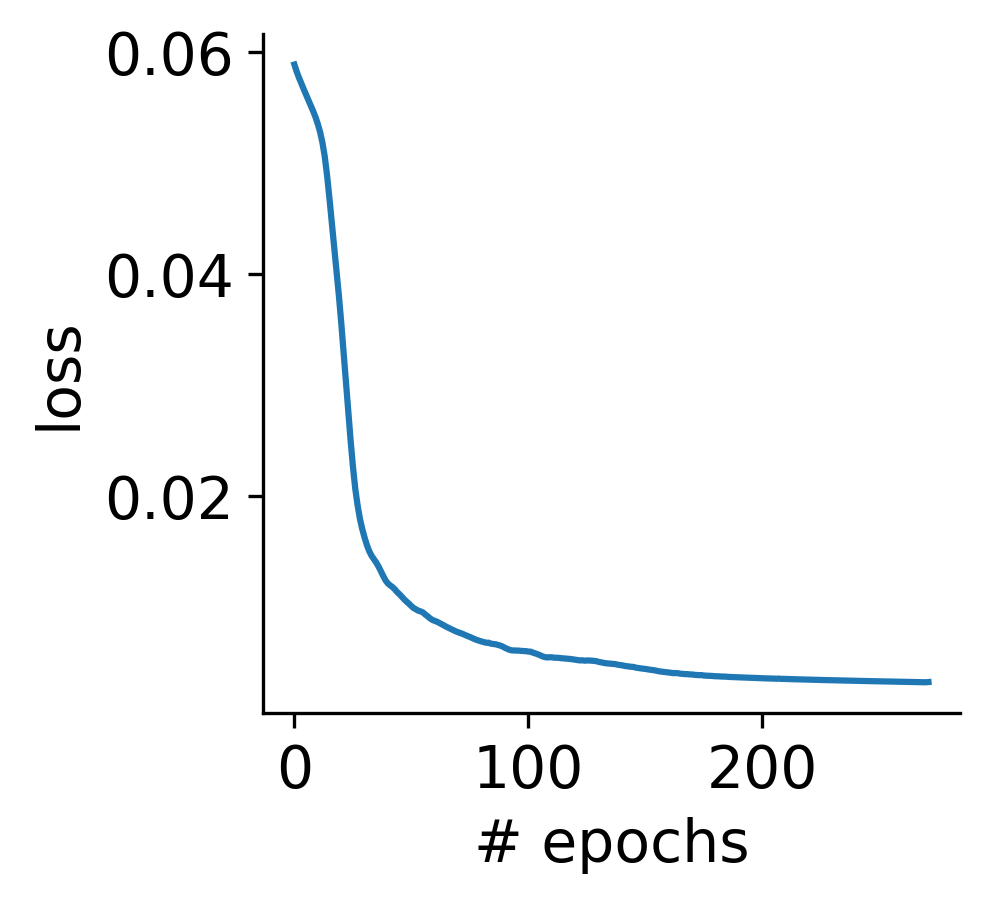
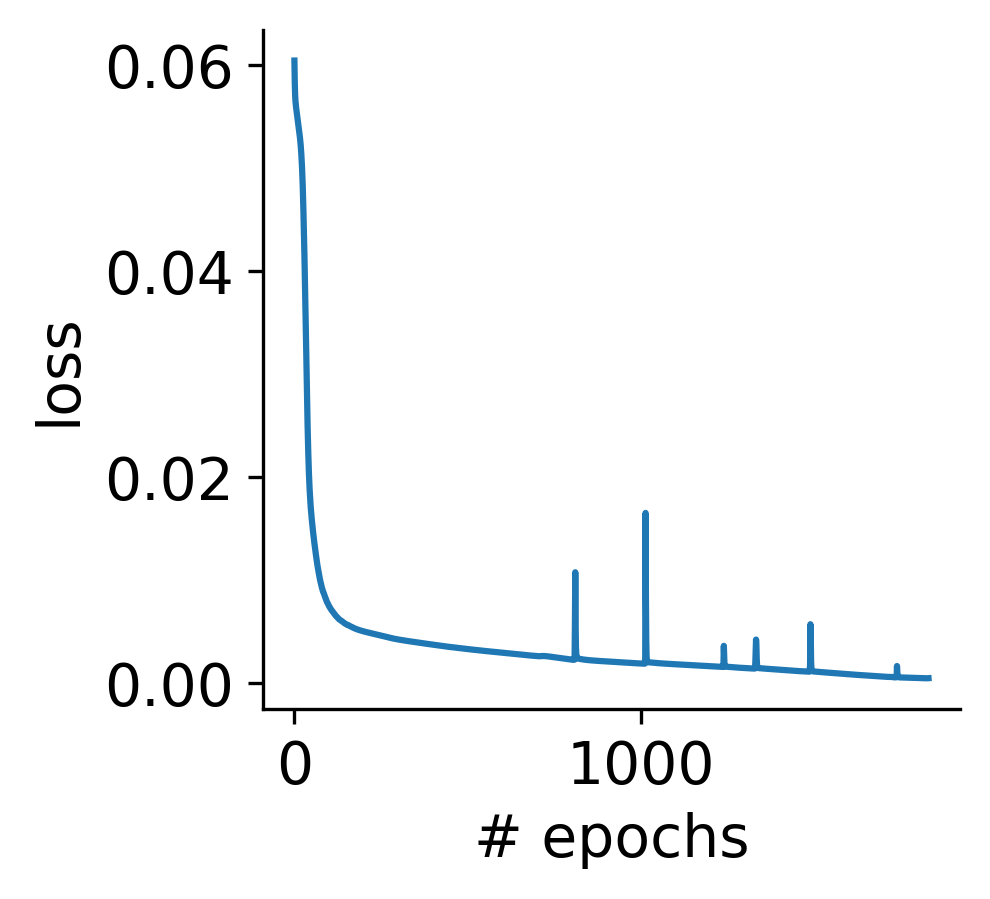
detaching Vnext from td learning, fixes #3

diff --git a/train.py b/train.py
@@ -46,19 +46,18 @@ def train_epoch(model, dataloader, loss_fn, optimizer=None, handle_padding=True)
         V, (hx,cx) = model(X)
 
         # Compute prediction error
-        V_cur = V[:-1,:,:]
+        V_hat = V[:-1,:,:]
         V_next = V[1:,:,:]
-        pred = V_cur - model.gamma*V_next
-        y = y[:-1,:,:]
+        V_target = y[:-1,:,:] + model.gamma*V_next.detach()
 
         if handle_padding:
             # do not compute loss on padded values
             loss = 0.0
             for i,l in enumerate(xls):
-                loss += loss_fn(pred[:,i][:l], y[:,i][:l])
+                loss += loss_fn(V_hat[:,i][:l], V_target[:,i][:l])
             loss /= len(xls)
         else:
-            loss = loss_fn(pred, y)
+            loss = loss_fn(V_hat, V_target)
 
         # Backpropagation
         if optimizer is not None:
@@ -120,11 +119,12 @@ def probe_model(model, dataloader):
             Z = Z_batch[:xls[j],j,:]
             y = y_batch[:xls[j],j,:]
             V = V_batch[:xls[j],j,:]
-            Vcur = V[:-1,:]
-            Vnext = V[1:,:]
-            pred = Vcur - model.gamma*Vnext
+            
+            V_hat = V[:-1,:]
+            V_next = V[1:,:]
             r = y[:-1,:]
-            rpe = r - pred
+            V_target = r + model.gamma*V_next
+            rpe = V_target - V_hat
             
             # recover trial info
             cue = np.where(X[:,:-1].sum(axis=0))[0][0]
@@ -132,7 +132,7 @@ def probe_model(model, dataloader):
             isi = np.where(r)[0][0] - iti
             
             data = {'cue': cue, 'iti': iti, 'isi': isi,
-                    'X': X, 'y': y, 'value': V,
-                    'Z': Z, 'pred': pred, 'rpe': rpe}
+                    'X': X, 'y': y, 'value': V, 'rpe': rpe,
+                    'Z': Z}
             responses.append(data)
     return sorted(responses, key=lambda data: data['iti'])

diff --git a/model.py b/model.py
@@ -47,6 +47,12 @@ class ValueRNN(nn.Module):
             self.features[name] = output
         return hook
     
+    def save_weights_to_path(self, path):
+        torch.save(self.state_dict(), path)
+        
+    def load_weights_from_path(self, path):
+        self.load_state_dict(torch.load(path))
+        
     def prepare_to_gather_activity(self):
         if hasattr(self, 'handle'):
             self.handle.remove()
